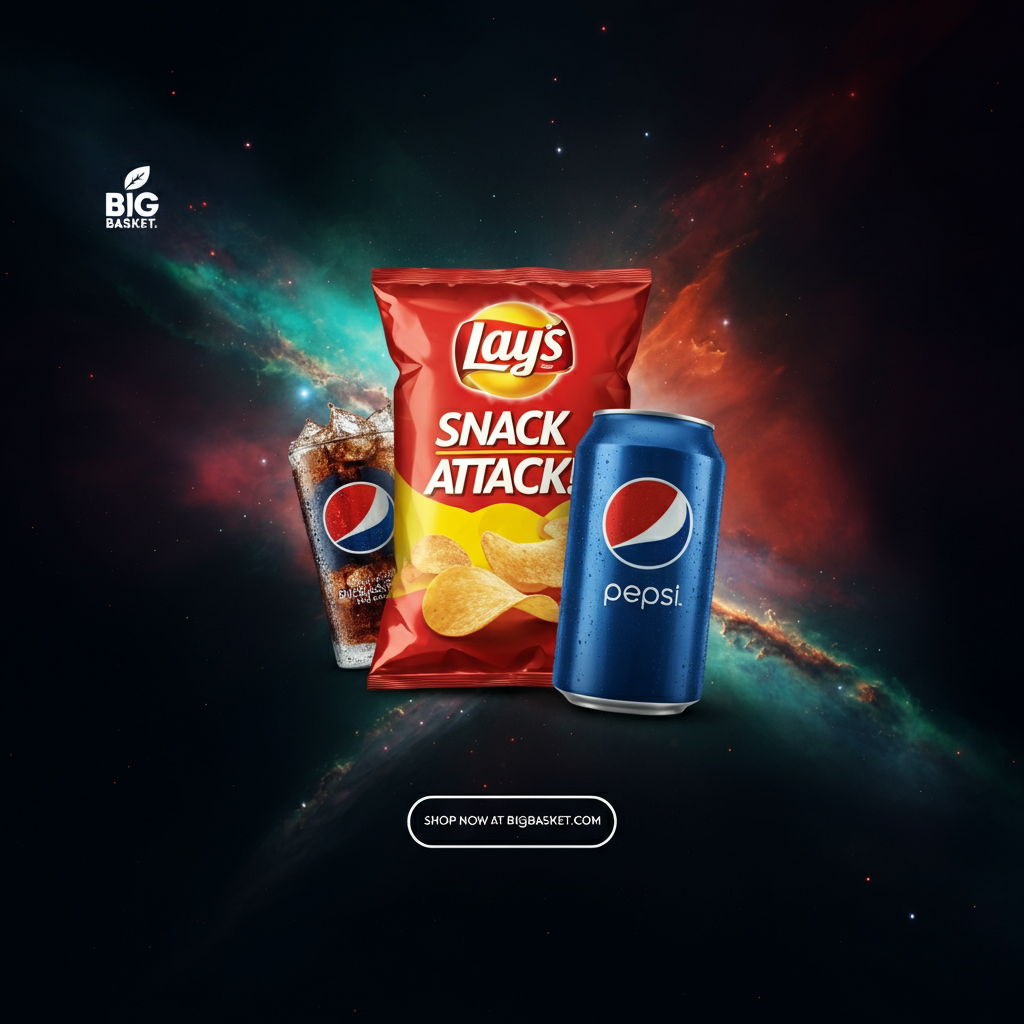
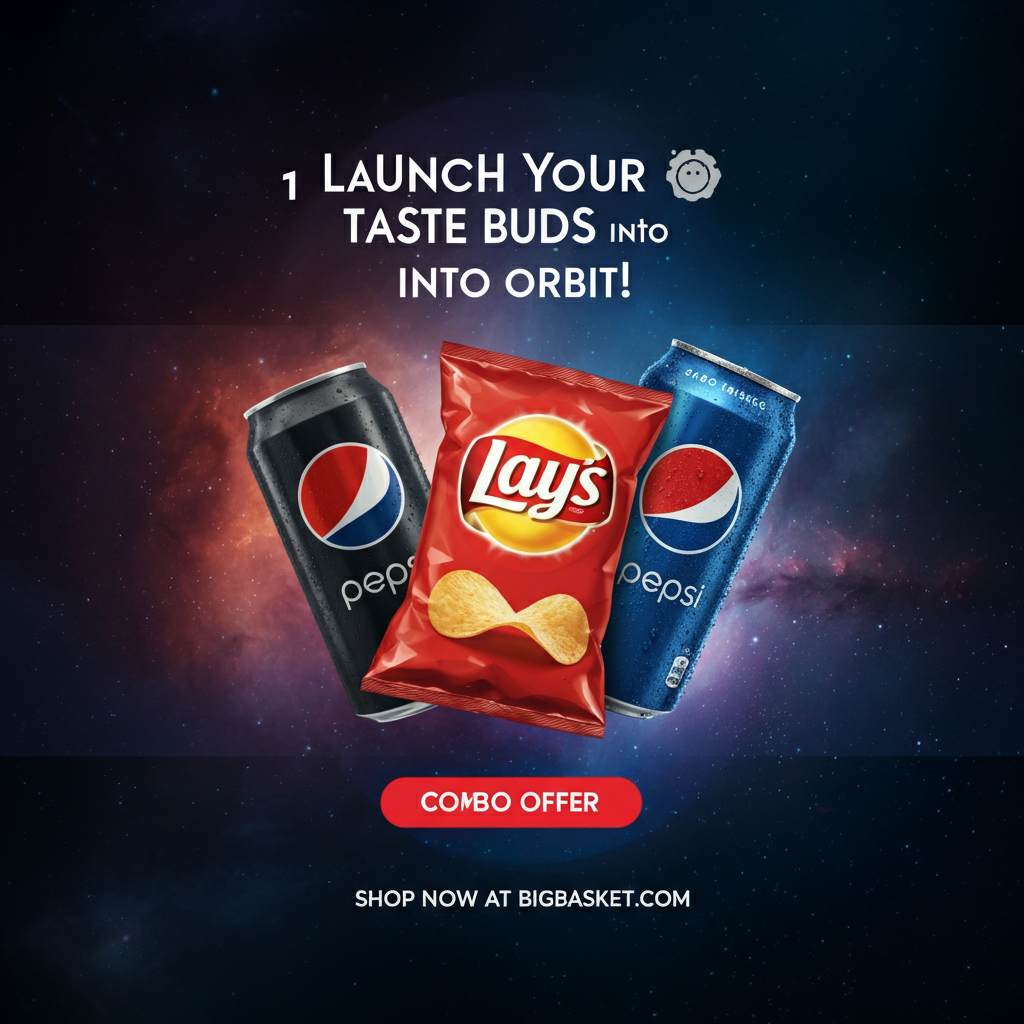
final changes unles any emergency comes up

diff --git a/app/imagentti.py b/app/imagentti.py
@@ -9,33 +9,33 @@ PROJECT_ID = os.getenv('GOOGLE_CLOUD_PROJECT_ID')
 output_file = "image.png"
 prompt = """
 
+## Big Basket: Interstellar Grocery Run
 
-## Big Basket: Interstellar Snack Attack!
+**1. Catchy Headline:** Launch Your Taste Buds into Orbit! This headline captures the essence of the interstellar theme while relating it to the excitement of exploring new flavors and enjoying Big Baskets grocery 
+offerings.
 
-**1. Catchy Headline & Theme:** Interstellar Snack Attack! uses the interstellar theme with a playful twist to connect it to grocery shopping. It suggests an out-of-this-world snacking experience with Big Basket.  
+**2. Theme Influence:** The overall design is inspired by the vastness and mystery of space. A dark, starry background with swirling nebulas of purple, blue, and orange creates an otherworldly atmosphere.
 
-**2. Theme Influence:** The banner features a stylized depiction of outer space with swirling nebulas and twinkling stars in shades of red, blue, green, purple, and orange. This vibrant backdrop reinforces the interstellar theme while aligning with the specified color palette.
+**3. Layout:**
 
-**3. Layout & Element Arrangement:**
+* **Top Left:** Launch Your Taste Buds into Orbit! in bold, white text with a subtle glow effect.
+* **Bottom Right:**  Big Basket logo in its signature orange and green colors, slightly enlarged for prominence.
+* **Center:** A cluster of the specified products: A bag of Lays chips angled dynamically and a Pepsi can with condensation, both realistically rendered with accurate packaging colors and logos.
+* **Below Products:** combo offer in smaller, red text.
+* **Right of Products:** Shop Now at BigBasket.com within a vibrant green button with rounded edges.       
 
-* **Top Left:**  The Big Basket logo in its standard format.
-* **Center:** Interstellar Snack Attack! in bold, large font, with a slight arc for dynamism.
-* **Slightly Below Center:** A Lays chips bag and a Pepsi can are realistically rendered and prominently displayed, showcasing their actual packaging and colors.
-* **Below Products:** combo offer in a smaller font, emphasizing the deal.
-* **Below Lays:** Crunchy, satisfying goodness! in a fun font.
-* **Below Pepsi:**  Out-of-this-world refreshment! in a similar fun font.
-* **Bottom Right:** Shop Now at BigBasket.com  in a clear call to action button.
+**4. Color Palette:** The background utilizes the provided blue, purple, and orange hues in a cosmic swirl, evoking nebulae. The product colors - red (Lays) and blue (Pepsi) - pop against the dark background and are further emphasized by subtle glow effects.
 
-**4. Color Palette & Product Colors:**  The background nebula uses the specified colors with gradients to create depth. The dominant colors of the Lays bag (red, yellow) and Pepsi can (blue, red, white) are reflected in the nearby nebulas, subtly linking the products with the background.
+**5. Product-Inspired Design:**  The Lays bag is angled as if floating in zero gravity, while the Pepsi can features realistic condensation, adding to the dynamic, out-of-this-world feel.
 
-**5.  Design Elements Inspired by Product Images:** The Lays bags wave design is subtly echoed in the surrounding nebula pattern, adding a visual connection without altering the product image itself.
+**6. Big Basket Branding:** The signature orange and green Big Basket logo is prominently displayed in the 
+bottom right corner, instantly recognizable and reinforcing brand identity.
 
-**6. Big Basket Branding:** The Big Basket logo is prominently displayed in the top left corner, ensuring immediate brand recognition.
-
-**7. Accurate Product Representation:** Both the Lays bag and Pepsi can are depicted with photographic accuracy, including their respective logos, color schemes, and packaging details. No modifications are made to 
-the original product images.
-
-**8. Text Placement:** All provided text elements (combo offer, Shop Now at BigBasket.com) are incorporated exactly as specified and positioned for optimal readability and impact.
+**7. Product Representation:** Products are displayed with meticulous attention to detail. The Lays bag accurately reflects its packaging, including the logo, color scheme, and bag texture. Similarly, the Pepsi can is faithfully recreated with accurate branding, color, and even the condensation effect for added realism.
+**8. Text Placement:**
+* combo offer is placed directly below the product cluster in a smaller font size, clearly associated with 
+the displayed items.
+*  Shop Now at BigBasket.com is incorporated within a clear call-to-action button to the right of the products, prompting immediate action.
 
 """
 

diff --git a/app/banner.py b/app/banner.py
@@ -86,19 +86,19 @@ def generate_banner(filenames, offer, theme, color_palette, generator_type):
     {products_info}
 
     Banner Elements:
-    1. Main Eye-catching Text: Create a bold, attention-grabbing headline that relates to the theme and offer. This should be a catchy, creative interpretation of the theme, not just a repetition. For example, if the theme is about cricket performance, create a headline that cleverly connects cricket to shopping or deals. This should be the largest and most prominent text on the banner.
-    2. Main Heading: Create a creative and catchy heading that incorporates the essence of "{theme} Special" without using these exact words. Make it engaging and relevant to Big Basket's offerings.
-    3. Product Showcase: Prominently display ONLY the main product(s) mentioned above: {main_products}. Do not add or showcase any products that are not listed here. Ensure accurate representation of each product's specific appearance, including color and packaging details. Do not add any text or modifications to the product packaging itself.
-    4. Offer Display: Use exactly this text for the offer: "{offer}"
+    1. Main Eye-catching Text: Create a bold, attention-grabbing headline that relates to the theme and offer. This should be a catchy, creative interpretation of the theme, not just a repetition. For example, if the theme is about cricket performance, create a headline that cleverly connects cricket to shopping or deals. Place this text at the top, bottom, left, or right of the banner, but NOT in the center.
+    2. Main Heading: Create a creative and catchy heading that incorporates the essence of "{theme}" without using these exact words. Make it engaging and relevant to Big Basket's offerings. Position this heading opposite to the main eye-catching text for balance.
+    3. Product Showcase: Prominently display ONLY the main product(s) mentioned above: {main_products}. Do not add or showcase any products that are not listed here. Ensure accurate representation of each product's specific appearance, including color and packaging details. Do not add any text or modifications to the product packaging itself. Place the products in the central area of the banner.
+    4. Offer Display: Use exactly this text for the offer: "{offer}". Position this near the products but not overlapping them.
     5. Product Features: Create short, catchy phrases for each product that highlight its key feature or benefit. Place these phrases near the products, but not on the product packaging.
-    6. Call to Action: Use exactly this text: "Shop Now at BigBasket.com"
-    7. Background: Design a background that complements the theme and product colors.
-    8. Big Basket Logo: Include the text "Big Basket" in a logo-like format.
+    6. Call to Action: Use exactly this text: "Shop Now at BigBasket.com". Place this in a visually distinct area, such as a button or highlighted text box.
+    7. Background: Design a background that complements the theme and product colors, filling the space around the central product showcase.
+    8. Big Basket Logo: Include the text "Big Basket" in a logo-like format. Position this in one of the corners of the banner.
 
     Design Guidelines:
     - Use the provided color palette throughout the banner
     - Incorporate the dominant colors from the product images: {dominant_colors}
-    - Maintain a clear visual hierarchy with the main eye-catching text as the focal point
+    - Maintain a clear visual hierarchy with the main eye-catching text as a focal point, but not centrally located
     - Ensure all text is legible
     - Optimize the layout for quick comprehension
     - Make sure the Big Basket branding is clearly visible and recognizable
